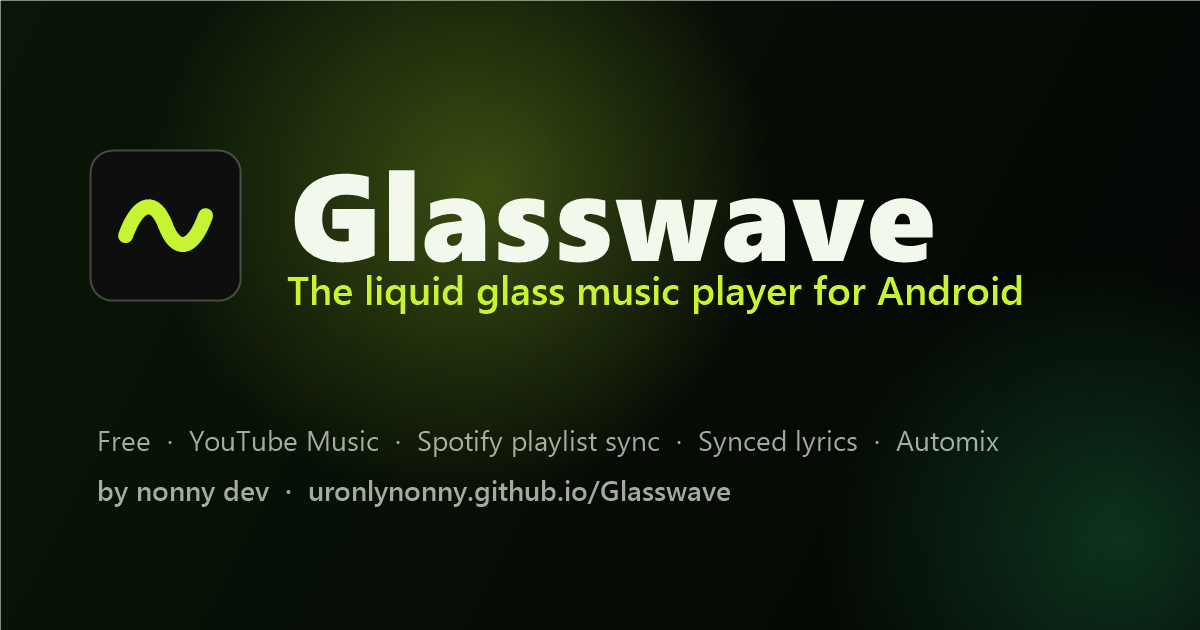
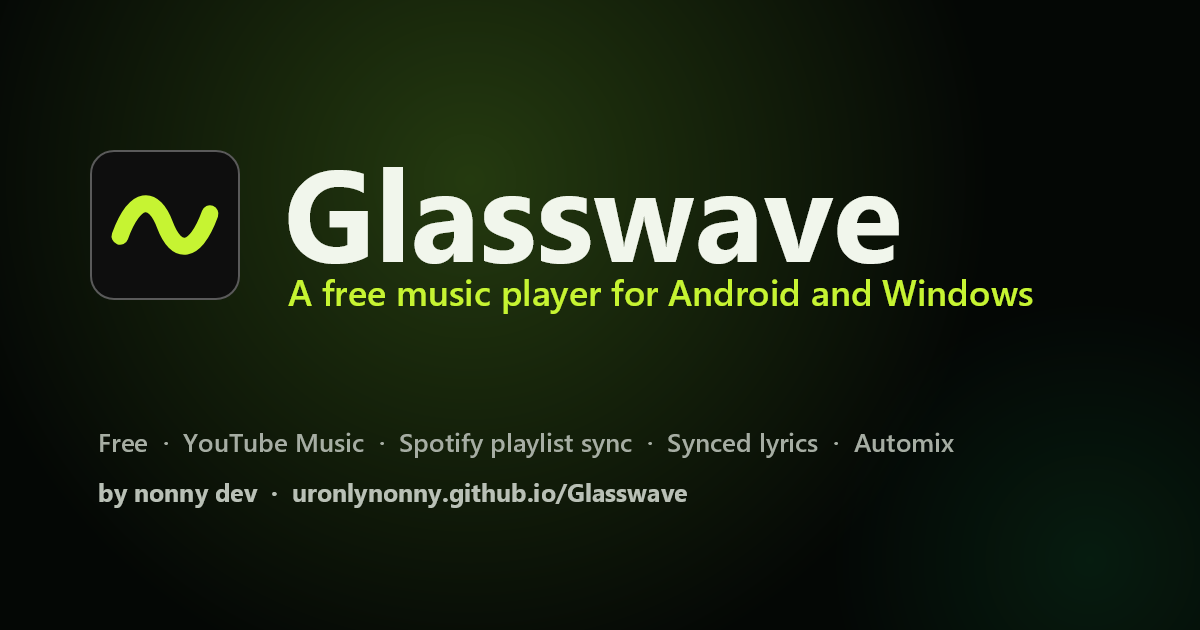
Website: tone down the liquid glass wording
The link preview, page title, description, top line and features no
longer lean on "liquid glass". New preview picture: "A free music player
for Android and Windows" (made by desktop's makeOg task).

diff --git a/docs/index.html b/docs/index.html
@@ -4,24 +4,24 @@
 <meta charset="utf-8">
 <meta name="viewport" content="width=device-width, initial-scale=1">
 <meta name="google-site-verification" content="NCm0zYsz6qLgjvhQaUTuxnFM8Z-z5OLNsuDwKkeY4qw" />
-<title>Glasswave Music Player: free liquid glass music app for Android and Windows</title>
-<meta name="description" content="Glasswave is a free music player for Android and Windows with a liquid glass design. Stream YouTube Music, sync your Spotify and YouTube Music playlists, synced lyrics, Automix and the Flow DJ. No ads. Made by nonny dev.">
-<meta name="keywords" content="Glasswave, Glasswave music player, Glasswave app, liquid glass music player, Android music player, YouTube Music player, Spotify playlist sync, synced lyrics, free music app, nonny dev">
+<title>Glasswave Music Player: free music app for Android and Windows</title>
+<meta name="description" content="Glasswave is a free music player for Android and Windows. Stream YouTube Music, sync your Spotify and YouTube Music playlists, synced lyrics, Automix and the Flow DJ. No ads. Made by nonny dev.">
+<meta name="keywords" content="Glasswave, Glasswave music player, Glasswave app, Android music player, Windows music player, YouTube Music player, Spotify playlist sync, synced lyrics, free music app, nonny dev">
 <meta name="author" content="nonny dev">
 <meta name="theme-color" content="#040604">
 <link rel="canonical" href="https://uronlynonny.github.io/Glasswave/">
 <meta property="og:type" content="website">
 <meta property="og:site_name" content="Glasswave">
 <meta property="og:url" content="https://uronlynonny.github.io/Glasswave/">
-<meta property="og:title" content="Glasswave: the liquid glass music player for Android and Windows">
+<meta property="og:title" content="Glasswave: a free music player for Android and Windows">
 <meta property="og:description" content="Free. YouTube Music, Spotify playlist sync, synced lyrics, Automix. Made by nonny dev.">
-<meta property="og:image" content="https://uronlynonny.github.io/Glasswave/og.png">
+<meta property="og:image" content="https://uronlynonny.github.io/Glasswave/og.png?v=2">
 <meta property="og:image:width" content="1200">
 <meta property="og:image:height" content="630">
 <meta name="twitter:card" content="summary_large_image">
-<meta name="twitter:title" content="Glasswave: the liquid glass music player for Android and Windows">
+<meta name="twitter:title" content="Glasswave: a free music player for Android and Windows">
 <meta name="twitter:description" content="Free. YouTube Music, Spotify playlist sync, synced lyrics, Automix. Made by nonny dev.">
-<meta name="twitter:image" content="https://uronlynonny.github.io/Glasswave/og.png">
+<meta name="twitter:image" content="https://uronlynonny.github.io/Glasswave/og.png?v=2">
 <link rel="icon" href="icon.svg" type="image/svg+xml">
 <!-- Tells search engines exactly what this is: a free Android music app by nonny dev. -->
 <script type="application/ld+json">
@@ -32,13 +32,13 @@
       "@type": "SoftwareApplication",
       "name": "Glasswave",
       "alternateName": "Glasswave Music Player",
-      "description": "A free music player for Android and Windows with a liquid glass design. Streams YouTube Music, syncs Spotify and YouTube Music playlists, shows synced lyrics, and blends songs with Automix.",
+      "description": "A free music player for Android and Windows. Streams YouTube Music, syncs Spotify and YouTube Music playlists, shows synced lyrics, and blends songs with Automix.",
       "applicationCategory": "MultimediaApplication",
       "applicationSubCategory": "Music player",
       "operatingSystem": "Android 8.0 or newer, Windows 10 or 11",
       "url": "https://uronlynonny.github.io/Glasswave/",
       "downloadUrl": "https://github.com/uronlynonny/Glasswave/releases/latest/download/Glasswave.apk",
-      "image": "https://uronlynonny.github.io/Glasswave/og.png",
+      "image": "https://uronlynonny.github.io/Glasswave/og.png?v=2",
       "fileSize": "3.4 MB",
       "offers": { "@type": "Offer", "price": "0", "priceCurrency": "USD" },
       "author": { "@type": "Person", "name": "nonny dev", "url": "https://github.com/uronlynonny" }
@@ -49,7 +49,7 @@
         { "@type": "Question", "name": "Is Glasswave free?", "acceptedAnswer": { "@type": "Answer", "text": "Yes. Glasswave is free, with no ads and no account needed to start listening." } },
         { "@type": "Question", "name": "Can Glasswave play my Spotify playlists?", "acceptedAnswer": { "@type": "Answer", "text": "Yes. Sign in to Spotify or paste a playlist link, and Glasswave plays each song from YouTube Music." } },
         { "@type": "Question", "name": "Which phones does Glasswave work on?", "acceptedAnswer": { "@type": "Answer", "text": "Any Android phone or tablet on Android 8.0 or newer. The download is about 3 MB." } },
-        { "@type": "Question", "name": "Is there a PC version?", "acceptedAnswer": { "@type": "Answer", "text": "Yes. Glasswave for Windows 10 and 11 has the same liquid glass look with a sidebar, a player bar and Apple Music-style lyrics." } },
+        { "@type": "Question", "name": "Is there a PC version?", "acceptedAnswer": { "@type": "Answer", "text": "Yes. Glasswave for Windows 10 and 11 has the same look, with a sidebar, a player bar and Apple Music-style lyrics." } },
         { "@type": "Question", "name": "Who made Glasswave?", "acceptedAnswer": { "@type": "Answer", "text": "Glasswave is made by nonny dev." } }
       ]
     }
@@ -291,7 +291,7 @@ footer .sig{font-family:Syne;font-weight:700;font-size:18px;color:var(--ink);mar
 <section class="hero" id="top">
   <div>
     <h1><span>Glass</span><span class="grad">wave.</span></h1>
-    <p class="sub">A music player that feels like liquid glass. YouTube Music's whole catalogue, your Spotify playlists, lyrics that move with the song, and it stays light on your phone.</p>
+    <p class="sub">A free music player with YouTube Music's whole catalogue, your Spotify playlists, lyrics that move with the song, and it stays light on your phone.</p>
     <div class="btns">
       <a class="btn primary" data-os="android" href="https://github.com/uronlynonny/Glasswave/releases/latest/download/Glasswave.apk">
         <svg width="20" height="20" viewBox="0 0 24 24" fill="none" stroke="currentColor" stroke-width="2.4" stroke-linecap="round" stroke-linejoin="round"><path d="M12 3v12m0 0-5-5m5 5 5-5M5 21h14"/></svg>
@@ -350,7 +350,7 @@ footer .sig{font-family:Syne;font-weight:700;font-size:18px;color:var(--ink);mar
     <h2>Built to feel<br><span class="grad">expensive.</span> Free.</h2>
   </div>
   <div class="grid">
-    <div class="card wide glass rv"><div class="ico">◐</div><h3>Liquid glass, everywhere</h3><p>The tab bar, mini player and buttons bend and blur what's behind them, with a bright rim like real glass. The background takes its colours from the cover of whatever's playing.</p></div>
+    <div class="card wide glass rv"><div class="ico">◐</div><h3>A clean look</h3><p>The tab bar, mini player and buttons are softly frosted, and the background takes its colours from the cover of whatever's playing.</p></div>
     <div class="card glass rv"><div class="ico">⇄</div><h3>Your playlists, synced</h3><p>Sign in to YouTube Music and Spotify once. Playlists and liked songs come over and stay up to date by themselves.</p></div>
     <div class="card glass rv"><div class="ico">▶</div><h3>Music video covers</h3><p>Covers come alive with the song's music video, on Wi-Fi only or always. Your choice.</p></div>
     <div class="card glass rv"><div class="ico">↓</div><h3>Offline downloads</h3><p>Save songs for the plane. Pick a different quality for Wi-Fi and mobile data.</p></div>
@@ -391,7 +391,7 @@ footer .sig{font-family:Syne;font-weight:700;font-size:18px;color:var(--ink);mar
   <details class="glass rv"><summary>Is Glasswave free?</summary><p>Yes. Glasswave is free, with no ads and no account needed to start listening.</p></details>
   <details class="glass rv"><summary>Can Glasswave play my Spotify playlists?</summary><p>Yes. Sign in to Spotify or paste a playlist link, and Glasswave plays each song from YouTube Music.</p></details>
   <details class="glass rv"><summary>Which phones does Glasswave work on?</summary><p>Any Android phone or tablet on Android 8.0 or newer. The download is about 3 MB.</p></details>
-  <details class="glass rv"><summary>Is there a PC version?</summary><p>Yes. Glasswave for Windows 10 and 11 has the same liquid glass look, made for a mouse: a sidebar, a player bar along the bottom, keyboard shortcuts (Space to play or pause, Ctrl+arrows to skip) and big Apple Music-style lyrics. The installer is about 130 MB and includes everything it needs.</p></details>
+  <details class="glass rv"><summary>Is there a PC version?</summary><p>Yes. Glasswave for Windows 10 and 11 has the same look, made for a mouse: a sidebar, a player bar along the bottom, keyboard shortcuts (Space to play or pause, Ctrl+arrows to skip) and big Apple Music-style lyrics. The installer is about 130 MB and includes everything it needs.</p></details>
   <details class="glass rv"><summary>Who made Glasswave?</summary><p>Glasswave is made by nonny dev.</p></details>
 </section>
 
@@ -522,7 +522,7 @@ footer .sig{font-family:Syne;font-weight:700;font-size:18px;color:var(--ink);mar
   });
 
   // Marquee
-  const words = ['Liquid glass','Synced lyrics','YouTube Music','Spotify sync','Flow DJ','Crossfade','Offline','Music video covers','Listening stats','Voice search','No ads'];
+  const words = ['Synced lyrics','YouTube Music','Spotify sync','Flow DJ','Crossfade','Offline','Music video covers','Listening stats','Voice search','No ads'];
   const mq = document.getElementById('mq');
   mq.innerHTML = [...words, ...words].map(w => `<span>${w}</span>`).join('');
 
@@ -568,7 +568,7 @@ footer .sig{font-family:Syne;font-weight:700;font-size:18px;color:var(--ink);mar
   // Lyrics preview: letters fill in as each line is "sung"
   const lines = [
     'Turn the lights down low tonight',
-    'Every colour bending through the glass',
+    'Every colour shining through the night',
     'Hold the moment, let it play',
     'We were waves before the morning came',
     'Turn it up and let it pass',
